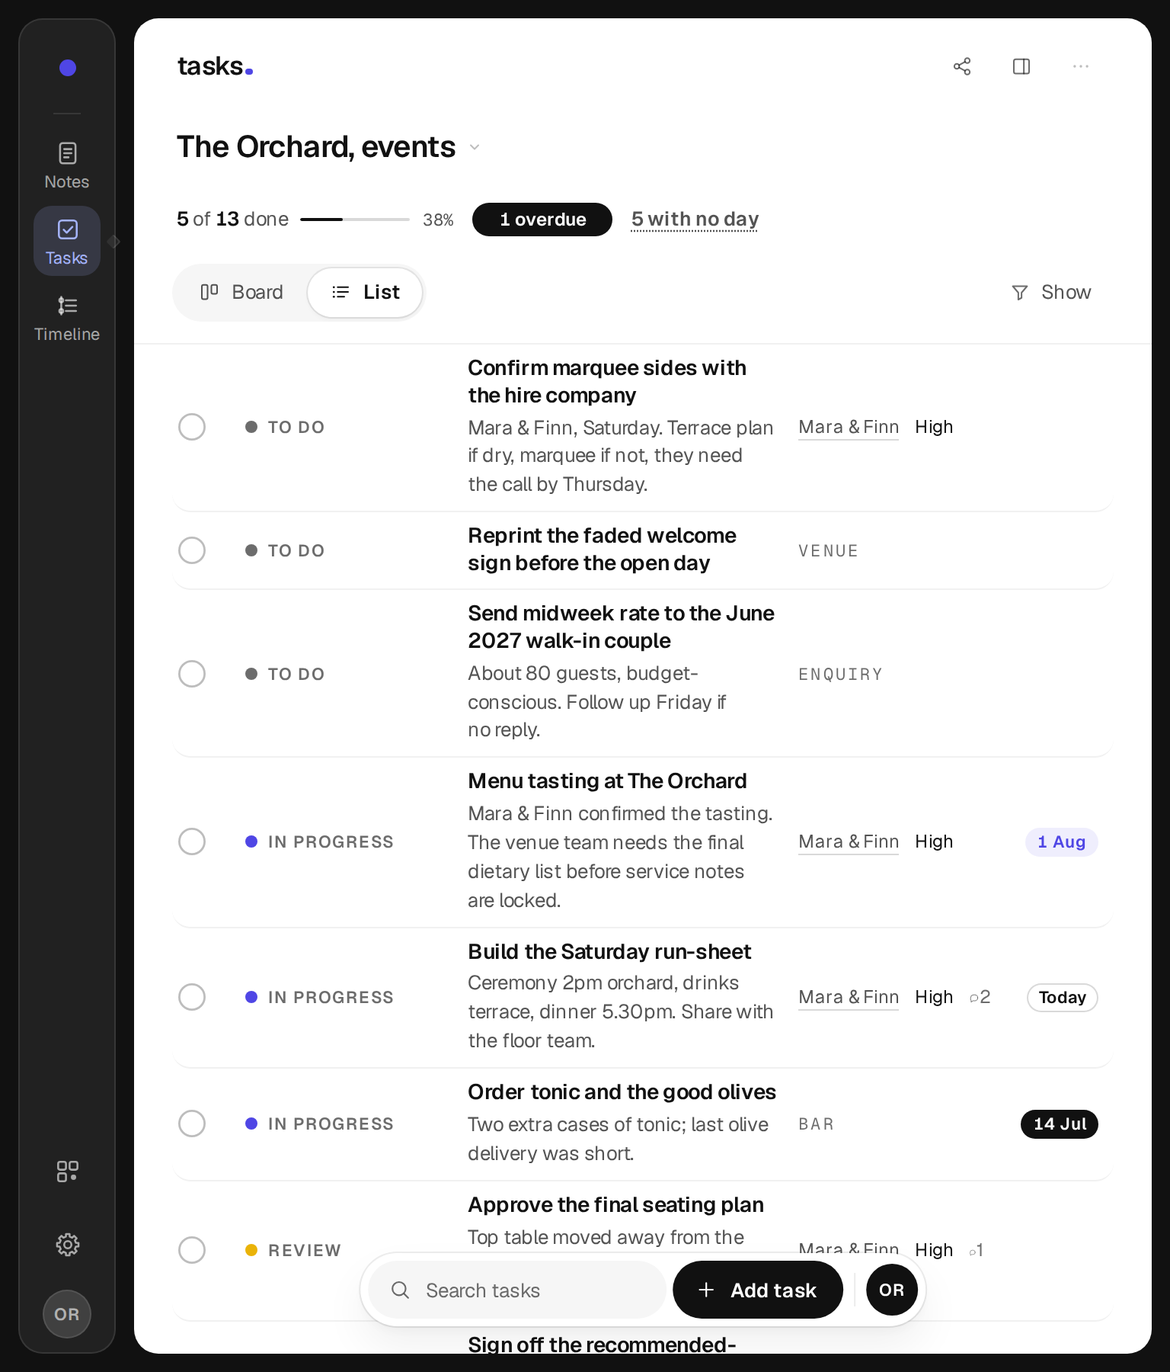
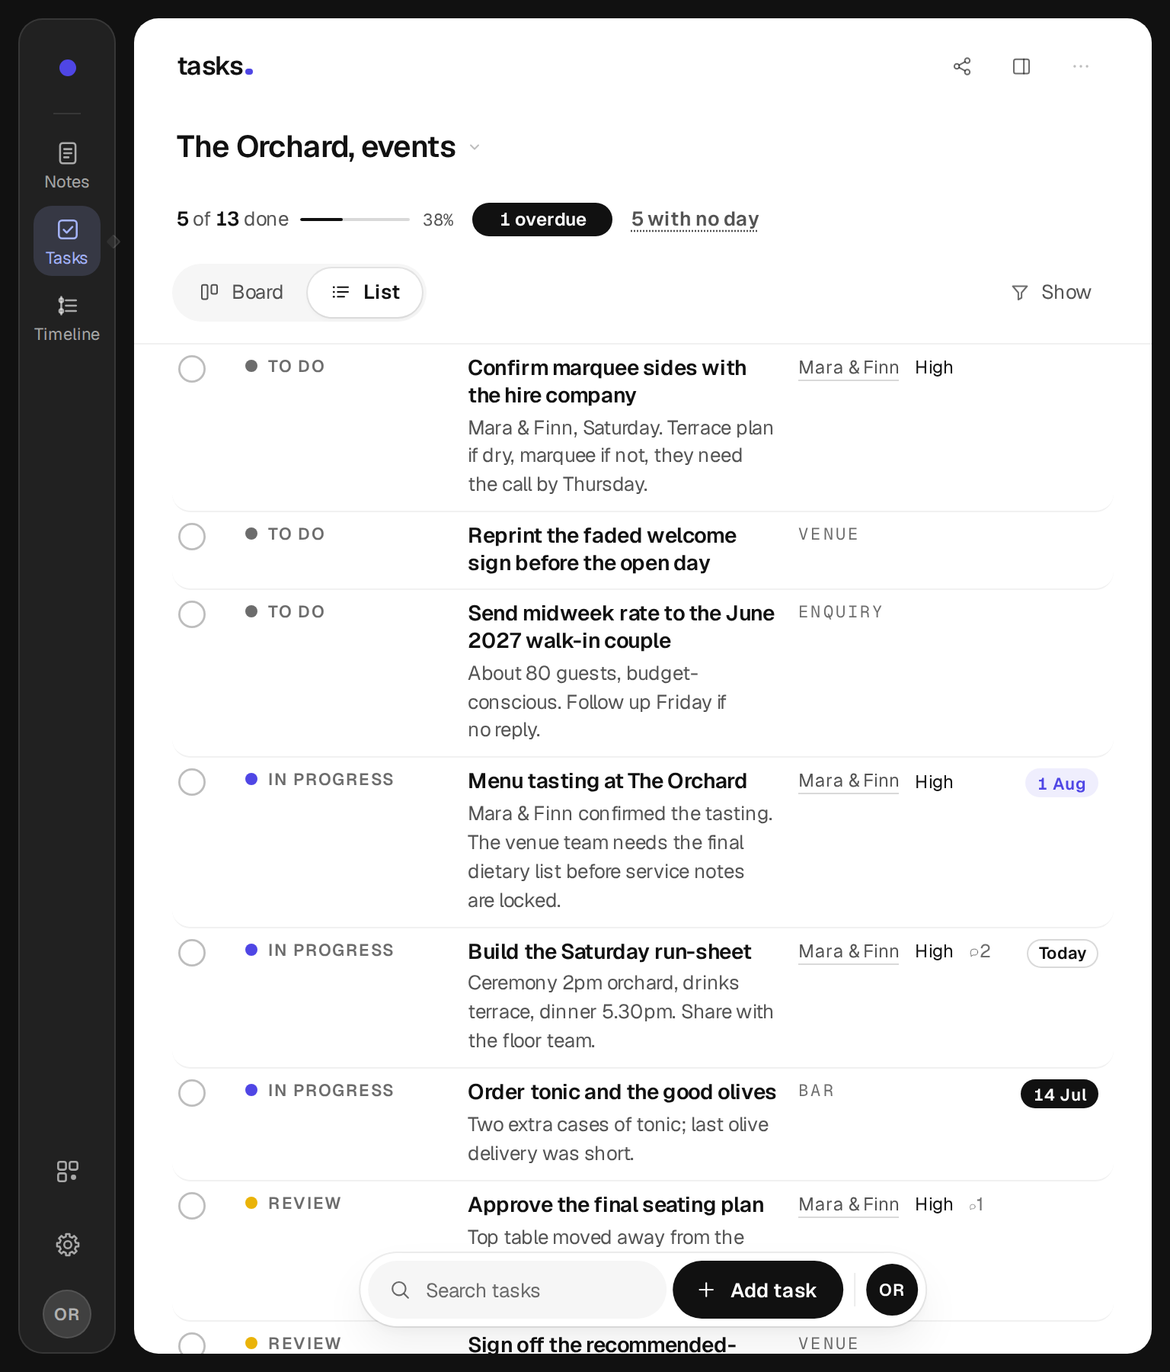
round 6: four confirmed findings closed, and the second gate blind spot
All 31 findings that went to refuters are adjudicated: 21 real, 10
refuted. These four are fixed, each with its assertion written first and
watched failing (13 red, now 0):

REFLOW. The dictation floor's three pills sat on one no-wrap row needing
472px, and the only relief lived inside a pointer:coarse query — so a
FINGER got it and a narrowed desktop window did not. WCAG 1.4.10's own
test width overflowed the document by 145px at 320 and really scrolled.
Width, not pointer, decides whether three pills fit, so the rule is a
width query. The coarse keycap hide stays: with the wrap the keycap still
fits, so the Ctrl+Enter hint survives for the keyboard user who narrowed
the window to find it.

THE ELEVENTH ABSENCE-READS-AS-A-PASS: open() derives isTouch from
vp.isMobile and every config viewport under 480 sets it, so every
no-sideways-scroll assertion in the behaviour gate had only ever run on a
coarse pointer. It now sweeps 320/390/430 on a fine one.

THE OUTLINE. Notes shipped five orphan h3s at a desk, and at 390 a
display:none pruned the sheet's h1 from the tree entirely — one state with
no heading at all. The name is not DRAWN on a phone by decision; it still
has to be the document's root, so it goes sr-only rather than away. The
index's day headings become level 2 under it, and each layer that covers
the sheet — the dictation floor, the phone sheet, the hand — carries its
own root, because a modal's accessible name is not a heading.
[…]

diff --git a/docs/design/labs/master-suite-2026-08/master.html b/docs/design/labs/master-suite-2026-08/master.html
@@ -1600,7 +1600,14 @@ body {
   display: grid;
   grid-template-columns: subgrid;
   grid-column: 1 / -1;
-  align-items: center;
+  /* START, not centre. A person's words get the first line, and the tick
+     that ticks them belongs beside that line — centred, it floated to the
+     middle of a two-line note, so a column of thirteen ticks wobbled
+     between 13px and 46px from its row's top and landed level with the
+     NOTE rather than the title. The `.lrow .tick { margin: 0 }` reset
+     below is what makes start-alignment land within a pixel; restoring
+     the tick's own margin-top pushes it back out. */
+  align-items: start;
   min-height: 44px;
   padding: 7px 10px 7px 4px;
   border-radius: var(--r-card, 8px);
@@ -5639,7 +5646,16 @@ body {
   [data-app="notes"] .state .act { flex: 0 0 auto; margin-left: 30px; }
   [data-app="notes"] { --inset: 9px; --gutter: 16px; }
   [data-app="notes"] .sheet { height: calc(100dvh - 60px - var(--inset) * 3 - env(safe-area-inset-bottom)); border-radius: 16px; }
-  [data-app="notes"] .headName { display: none; }
+  /* SR-ONLY, NOT GONE. `display: none` pruned the sheet's h1 from the
+     accessibility tree, leaving five orphan h3s at 390 — and in two
+     states no heading at all. The name is not drawn on a phone by
+     decision; it still has to be the document's root. `min-width` is
+     reset because the base rule sets 5ch, which fights `width: 1px`. */
+  [data-app="notes"] .headName {
+    position: absolute; width: 1px; height: 1px; min-width: 0;
+    margin: -1px; padding: 0; overflow: hidden;
+    clip-path: inset(50%); white-space: nowrap; border: 0;
+  }
   /* One row, four objects, no wrapping and a sheet that clips: the couple,
      the date and the notebook's count were laid out past the sheet's right
      edge and simply did not print. The head takes two rows on a phone —
@@ -5943,6 +5959,22 @@ body {
      stays whole on its own line. */
   [data-app="notes"] .darkFoot { flex-wrap: wrap; }
   [data-app="notes"] .darkNote { flex: 1 1 100%; }
+}
+
+/* THE REFLOW WIDTH, on a pointer that is not a finger.
+   `.darkActs` held its three pills on one `flex: 0 0 auto` row, which
+   needs 472px. The only relief was the keycap hide inside
+   `@media (pointer: coarse)` — so a FINGER got it and a narrowed desktop
+   window did not, and 1.4.10's own test width overflowed the document by
+   145px at 320 and really scrolled. Width, not pointer, is what decides
+   whether three pills fit, so the rule is a width query.
+
+   The coarse keycap hide STAYS: with the wrap in place the keycap still
+   fits unclipped inside the pill at 320, so the Ctrl+Enter hint survives
+   for exactly the keyboard user who narrowed the window to find it. */
+@media (max-width: 720px) {
+  [data-app="notes"] .darkActs { flex: 1 1 100%; flex-wrap: wrap; margin-left: 0; min-width: 0; }
+  [data-app="notes"] .darkAct { flex: 1 1 100%; min-width: 0; justify-content: center; padding: 0 12px; }
 }
 
 /* ══ timeline.css ══════════════════════════════════════════ */
@@ -17508,7 +17540,7 @@ window.__SUITE.register("tasks", {
         ${chip ? `<span class="headRule" aria-hidden="true"></span>${chip}` : ""}
         <div class="headActions">
           <button class="headAct" type="button" data-act="privacy" aria-label="${attr(N.copy.privacy)}. ${attr(N.copy.privacyLong)}.">${I.lock}<span>${esc(N.copy.privacy)}</span></button>
-          <button class="headAct" type="button" data-act="options" aria-label="Notes options" aria-disabled="true" title="Notes options are on another screen. Not here yet.">${I.dots}</button>
+          <button class="headAct" type="button" data-act="options" aria-label="Notes options" aria-disabled="true" title="More for this note. Not here yet.">${I.dots}</button>
         </div>
       </header>`;
   }
@@ -17550,7 +17582,7 @@ window.__SUITE.register("tasks", {
                  <div class="dockRow" data-verbs>
                    <button class="dockGlyph" type="button" data-act="search" aria-label="Search everything you wrote">${I.search}</button>
                    <button class="dockGlyph" type="button" data-act="voice" aria-label="${attr(N.copy.voiceStart)}">${I.mic}</button>
-                   <button class="dockGlyph" type="button" data-act="photo" aria-label="Read a photo" aria-disabled="true" title="Reading a photo happens on another screen. Not here yet.">${I.photo}</button>
+                   <button class="dockGlyph" type="button" data-act="photo" aria-label="Read a photo" aria-disabled="true" title="A photo, read into words. Not here yet.">${I.photo}</button>
                    ${commit}
                  </div>
                  <div class="dockRow" data-suite>
@@ -17573,7 +17605,7 @@ window.__SUITE.register("tasks", {
                  }
                  <span class="dockRule" aria-hidden="true"></span>
                  <button class="dockGlyph" type="button" data-act="voice" aria-label="${attr(N.copy.voiceStart)}">${I.mic}</button>
-                 <button class="dockGlyph" type="button" data-act="photo" aria-label="Read a photo" aria-disabled="true" title="Reading a photo happens on another screen. Not here yet.">${I.photo}</button>
+                 <button class="dockGlyph" type="button" data-act="photo" aria-label="Read a photo" aria-disabled="true" title="A photo, read into words. Not here yet.">${I.photo}</button>
                  <span class="dockRule" aria-hidden="true"></span>
                  <button class="dockAvatar" type="button" data-act="account" aria-disabled="true" title="Your account, in Signal Studio. Not here yet." aria-label="${attr(N.operator.role)}. Not here yet.">${N.operator.initials}</button>`
           }
@@ -17675,7 +17707,7 @@ window.__SUITE.register("tasks", {
           <span class="deskFact"><b>${esc(N.copy.otherWaysLabel)}</b>
             <span class="deskVerbs">
               <button class="verb" type="button" data-act="voice">${I.mic}${esc(N.copy.voiceStart)}</button>
-              <button class="verb" type="button" data-act="photo" aria-disabled="true" title="Reading a photo happens on another screen. Not here yet.">${I.photo}${esc(N.copy.photo)}</button>
+              <button class="verb" type="button" data-act="photo" aria-disabled="true" title="A photo, read into words. Not here yet.">${I.photo}${esc(N.copy.photo)}</button>
             </span>
           </span>
         </div>
@@ -18003,7 +18035,7 @@ window.__SUITE.register("tasks", {
         /* Its own sticky context, so a rule is pushed out by the next one
            rather than every rule in the pile stacking at the top. */
         rows.push(
-          `<li class="idxSection"><h3 class="idxDay" role="heading" aria-level="3"${g.soon ? " data-soon" : ""}${g.undated ? " data-undated" : ""}>${esc(g.label)}${g.note ? `<span class="idxDayNote dateStamp">${esc(g.note)}</span>` : ""}${g.tail ? `<span class="idxDayTail">${esc(g.tail)}</span>` : ""}</h3>` +
+          `<li class="idxSection"><h2 class="idxDay"${g.soon ? " data-soon" : ""}${g.undated ? " data-undated" : ""}>${esc(g.label)}${g.note ? `<span class="idxDayNote dateStamp">${esc(g.note)}</span>` : ""}${g.tail ? `<span class="idxDayTail">${esc(g.tail)}</span>` : ""}</h2>` +
             `<ul class="idxGroupRows">${g.rows.map((note) => idxRow(note, o)).join("")}</ul></li>`,
         );
       }
@@ -18050,6 +18082,7 @@ window.__SUITE.register("tasks", {
     const bodyHtml = bodyHtmlOf(note, marked && note.body.includes(marked) ? marked : null);
     return `
       <section class="phoneSheet" role="dialog" aria-modal="true" aria-label="${attr(note.title)}">
+        <h1 class="sr">${esc(note.title)}</h1>
         <div class="phoneSheetTop">
           <button class="act" data-quiet type="button" data-act="close">${I.chevron}Back to your notes</button>
           <span class="spacer"></span>
@@ -18219,6 +18252,7 @@ window.__SUITE.register("tasks", {
         dock: true,
         over: `
           <section class="phoneSheet" role="dialog" aria-modal="true" aria-label="${attr(`Deciding: ` + note.title)}">
+            <h1 class="sr">Deciding: ${esc(note.title)}</h1>
             <div class="phoneSheetTop">
               <button class="act" data-quiet type="button" data-act="notebook">${I.chevron}Back to your notes</button>
               <span class="spacer"></span>
@@ -18311,6 +18345,7 @@ window.__SUITE.register("tasks", {
       ...base,
       over: `
         <section class="dark" aria-label="Dictating">
+          <h1 class="sr">Dictating</h1>
           <div class="darkTop">
             <span class="darkTag"><span class="rec" aria-hidden="true"></span>Listening</span>
             <span class="darkTime tab">0:00</span>
@@ -18347,6 +18382,7 @@ window.__SUITE.register("tasks", {
         ...base,
         over: `
           <section class="dark" aria-label="What came back">
+            <h1 class="sr">What came back</h1>
             <div class="darkBody">
               <p class="saidHead">What came back, in ${pieces.length === 1 ? "one note" : `${pieces.length} notes`}.</p>
               <p class="saidHint">Edit ${editEither(pieces.length)} before you keep ${keepWhich(pieces.length)}.</p>
@@ -19118,7 +19154,7 @@ window.__SUITE.register("tasks", {
       }
       if (where === "more") {
         /* Still not a surface in the suite: the rest of Signal Studio. */
-        say("The rest of Signal Studio is on another screen.");
+        say("The rest of Signal Studio. Not here yet.");
         return;
       }
       /* The doors are real. */
@@ -19339,12 +19375,24 @@ window.__SUITE.register("tasks", {
        where they go rather than sharing one sentence between seven. */
     const ELSEWHERE = {
       timeline: "Timeline is another surface in this suite. This lab is the Notes one.",
-      more: "The rest of Signal Studio is on another screen.",
-      privacy: `${N.copy.privacyLong} Your privacy settings are on another screen.`,
-      options: "Notes options are on another screen.",
-      photo: "Reading a photo happens on another screen. Nothing here changes.",
-      retry: "Sending again happens on another screen. Your note is still here.",
-      destroy: "Deleting for good happens on another screen. Nothing here is deleted.",
+      /* ONE GRAMMAR FOR A CLOSED DOOR, ratified in src/app.js:96-105:
+         name the thing, then "Not here yet.", then at most one sentence
+         of reassurance. "happens on another screen. Not here yet." was
+         two claims that cannot both be true, and it invented a
+         destination this product does not have.
+
+         `photo` and `options` are gone from this table rather than
+         rewritten: :3220 intercepts any aria-disabled control whose title
+         matches /Not here yet/ and announces the TITLE, so both entries
+         were unreachable. Their titles carry the words now.
+
+         `more` is reached only by the note-level button, whose own
+         accessible name is "More actions for this note" — so it says
+         what that button is, not what the suite door is. */
+      more: "More for this note. Not here yet.",
+      privacy: `${N.copy.privacyLong}. Your privacy settings. Not here yet.`,
+      retry: "Sending again. Not here yet. Your note is still here.",
+      destroy: "Deleting for good. Not here yet. Nothing here is deleted.",
     };
     if (ELSEWHERE[a]) {
       say(ELSEWHERE[a]);

diff --git a/docs/design/labs/master-suite-2026-08/src/notes.js b/docs/design/labs/master-suite-2026-08/src/notes.js
@@ -1630,7 +1630,7 @@
         ${chip ? `<span class="headRule" aria-hidden="true"></span>${chip}` : ""}
         <div class="headActions">
           <button class="headAct" type="button" data-act="privacy" aria-label="${attr(N.copy.privacy)}. ${attr(N.copy.privacyLong)}.">${I.lock}<span>${esc(N.copy.privacy)}</span></button>
-          <button class="headAct" type="button" data-act="options" aria-label="Notes options" aria-disabled="true" title="Notes options are on another screen. Not here yet.">${I.dots}</button>
+          <button class="headAct" type="button" data-act="options" aria-label="Notes options" aria-disabled="true" title="More for this note. Not here yet.">${I.dots}</button>
         </div>
       </header>`;
   }
@@ -1672,7 +1672,7 @@
                  <div class="dockRow" data-verbs>
                    <button class="dockGlyph" type="button" data-act="search" aria-label="Search everything you wrote">${I.search}</button>
                    <button class="dockGlyph" type="button" data-act="voice" aria-label="${attr(N.copy.voiceStart)}">${I.mic}</button>
-                   <button class="dockGlyph" type="button" data-act="photo" aria-label="Read a photo" aria-disabled="true" title="Reading a photo happens on another screen. Not here yet.">${I.photo}</button>
+                   <button class="dockGlyph" type="button" data-act="photo" aria-label="Read a photo" aria-disabled="true" title="A photo, read into words. Not here yet.">${I.photo}</button>
                    ${commit}
                  </div>
                  <div class="dockRow" data-suite>
@@ -1695,7 +1695,7 @@
                  }
                  <span class="dockRule" aria-hidden="true"></span>
                  <button class="dockGlyph" type="button" data-act="voice" aria-label="${attr(N.copy.voiceStart)}">${I.mic}</button>
-                 <button class="dockGlyph" type="button" data-act="photo" aria-label="Read a photo" aria-disabled="true" title="Reading a photo happens on another screen. Not here yet.">${I.photo}</button>
+                 <button class="dockGlyph" type="button" data-act="photo" aria-label="Read a photo" aria-disabled="true" title="A photo, read into words. Not here yet.">${I.photo}</button>
                  <span class="dockRule" aria-hidden="true"></span>
                  <button class="dockAvatar" type="button" data-act="account" aria-disabled="true" title="Your account, in Signal Studio. Not here yet." aria-label="${attr(N.operator.role)}. Not here yet.">${N.operator.initials}</button>`
           }
@@ -1797,7 +1797,7 @@
           <span class="deskFact"><b>${esc(N.copy.otherWaysLabel)}</b>
             <span class="deskVerbs">
               <button class="verb" type="button" data-act="voice">${I.mic}${esc(N.copy.voiceStart)}</button>
-              <button class="verb" type="button" data-act="photo" aria-disabled="true" title="Reading a photo happens on another screen. Not here yet.">${I.photo}${esc(N.copy.photo)}</button>
+              <button class="verb" type="button" data-act="photo" aria-disabled="true" title="A photo, read into words. Not here yet.">${I.photo}${esc(N.copy.photo)}</button>
             </span>
           </span>
         </div>
@@ -2125,7 +2125,7 @@
         /* Its own sticky context, so a rule is pushed out by the next one
            rather than every rule in the pile stacking at the top. */
         rows.push(
-          `<li class="idxSection"><h3 class="idxDay" role="heading" aria-level="3"${g.soon ? " data-soon" : ""}${g.undated ? " data-undated" : ""}>${esc(g.label)}${g.note ? `<span class="idxDayNote dateStamp">${esc(g.note)}</span>` : ""}${g.tail ? `<span class="idxDayTail">${esc(g.tail)}</span>` : ""}</h3>` +
+          `<li class="idxSection"><h2 class="idxDay"${g.soon ? " data-soon" : ""}${g.undated ? " data-undated" : ""}>${esc(g.label)}${g.note ? `<span class="idxDayNote dateStamp">${esc(g.note)}</span>` : ""}${g.tail ? `<span class="idxDayTail">${esc(g.tail)}</span>` : ""}</h2>` +
             `<ul class="idxGroupRows">${g.rows.map((note) => idxRow(note, o)).join("")}</ul></li>`,
         );
       }
@@ -2172,6 +2172,7 @@
     const bodyHtml = bodyHtmlOf(note, marked && note.body.includes(marked) ? marked : null);
     return `
       <section class="phoneSheet" role="dialog" aria-modal="true" aria-label="${attr(note.title)}">
+        <h1 class="sr">${esc(note.title)}</h1>
         <div class="phoneSheetTop">
           <button class="act" data-quiet type="button" data-act="close">${I.chevron}Back to your notes</button>
           <span class="spacer"></span>
@@ -2341,6 +2342,7 @@
         dock: true,
         over: `
           <section class="phoneSheet" role="dialog" aria-modal="true" aria-label="${attr(`Deciding: ` + note.title)}">
+            <h1 class="sr">Deciding: ${esc(note.title)}</h1>
             <div class="phoneSheetTop">
               <button class="act" data-quiet type="button" data-act="notebook">${I.chevron}Back to your notes</button>
               <span class="spacer"></span>
@@ -2433,6 +2435,7 @@
       ...base,
       over: `
         <section class="dark" aria-label="Dictating">
+          <h1 class="sr">Dictating</h1>
           <div class="darkTop">
             <span class="darkTag"><span class="rec" aria-hidden="true"></span>Listening</span>
             <span class="darkTime tab">0:00</span>
@@ -2469,6 +2472,7 @@
         ...base,
         over: `
           <section class="dark" aria-label="What came back">
+            <h1 class="sr">What came back</h1>
             <div class="darkBody">
               <p class="saidHead">What came back, in ${pieces.length === 1 ? "one note" : `${pieces.length} notes`}.</p>
               <p class="saidHint">Edit ${editEither(pieces.length)} before you keep ${keepWhich(pieces.length)}.</p>
@@ -3240,7 +3244,7 @@
       }
       if (where === "more") {
         /* Still not a surface in the suite: the rest of Signal Studio. */
-        say("The rest of Signal Studio is on another screen.");
+        say("The rest of Signal Studio. Not here yet.");
         return;
       }
       /* The doors are real. */
@@ -3461,12 +3465,24 @@
        where they go rather than sharing one sentence between seven. */
     const ELSEWHERE = {
       timeline: "Timeline is another surface in this suite. This lab is the Notes one.",
-      more: "The rest of Signal Studio is on another screen.",
-      privacy: `${N.copy.privacyLong} Your privacy settings are on another screen.`,
-      options: "Notes options are on another screen.",
-      photo: "Reading a photo happens on another screen. Nothing here changes.",
-      retry: "Sending again happens on another screen. Your note is still here.",
-      destroy: "Deleting for good happens on another screen. Nothing here is deleted.",
+      /* ONE GRAMMAR FOR A CLOSED DOOR, ratified in src/app.js:96-105:
+         name the thing, then "Not here yet.", then at most one sentence
+         of reassurance. "happens on another screen. Not here yet." was
+         two claims that cannot both be true, and it invented a
+         destination this product does not have.
+
+         `photo` and `options` are gone from this table rather than
+         rewritten: :3220 intercepts any aria-disabled control whose title
+         matches /Not here yet/ and announces the TITLE, so both entries
+         were unreachable. Their titles carry the words now.
+
+         `more` is reached only by the note-level button, whose own
+         accessible name is "More actions for this note" — so it says
+         what that button is, not what the suite door is. */
+      more: "More for this note. Not here yet.",
+      privacy: `${N.copy.privacyLong}. Your privacy settings. Not here yet.`,
+      retry: "Sending again. Not here yet. Your note is still here.",
+      destroy: "Deleting for good. Not here yet. Nothing here is deleted.",
     };
     if (ELSEWHERE[a]) {
       say(ELSEWHERE[a]);

diff --git a/docs/design/labs/master-suite-2026-08/src/notes.css b/docs/design/labs/master-suite-2026-08/src/notes.css
@@ -1592,7 +1592,16 @@
   [data-app="notes"] .state .act { flex: 0 0 auto; margin-left: 30px; }
   [data-app="notes"] { --inset: 9px; --gutter: 16px; }
   [data-app="notes"] .sheet { height: calc(100dvh - 60px - var(--inset) * 3 - env(safe-area-inset-bottom)); border-radius: 16px; }
-  [data-app="notes"] .headName { display: none; }
+  /* SR-ONLY, NOT GONE. `display: none` pruned the sheet's h1 from the
+     accessibility tree, leaving five orphan h3s at 390 — and in two
+     states no heading at all. The name is not drawn on a phone by
+     decision; it still has to be the document's root. `min-width` is
+     reset because the base rule sets 5ch, which fights `width: 1px`. */
+  [data-app="notes"] .headName {
+    position: absolute; width: 1px; height: 1px; min-width: 0;
+    margin: -1px; padding: 0; overflow: hidden;
+    clip-path: inset(50%); white-space: nowrap; border: 0;
+  }
   /* One row, four objects, no wrapping and a sheet that clips: the couple,
      the date and the notebook's count were laid out past the sheet's right
      edge and simply did not print. The head takes two rows on a phone —
@@ -1896,4 +1905,20 @@
      stays whole on its own line. */
   [data-app="notes"] .darkFoot { flex-wrap: wrap; }
   [data-app="notes"] .darkNote { flex: 1 1 100%; }
+}
+
+/* THE REFLOW WIDTH, on a pointer that is not a finger.
+   `.darkActs` held its three pills on one `flex: 0 0 auto` row, which
+   needs 472px. The only relief was the keycap hide inside
+   `@media (pointer: coarse)` — so a FINGER got it and a narrowed desktop
+   window did not, and 1.4.10's own test width overflowed the document by
+   145px at 320 and really scrolled. Width, not pointer, is what decides
+   whether three pills fit, so the rule is a width query.
+
+   The coarse keycap hide STAYS: with the wrap in place the keycap still
+   fits unclipped inside the pill at 320, so the Ctrl+Enter hint survives
+   for exactly the keyboard user who narrowed the window to find it. */
+@media (max-width: 720px) {
+  [data-app="notes"] .darkActs { flex: 1 1 100%; flex-wrap: wrap; margin-left: 0; min-width: 0; }
+  [data-app="notes"] .darkAct { flex: 1 1 100%; min-width: 0; justify-content: center; padding: 0 12px; }
 }

diff --git a/docs/design/labs/master-suite-2026-08/src/tasks.css b/docs/design/labs/master-suite-2026-08/src/tasks.css
@@ -485,7 +485,14 @@
   display: grid;
   grid-template-columns: subgrid;
   grid-column: 1 / -1;
-  align-items: center;
+  /* START, not centre. A person's words get the first line, and the tick
+     that ticks them belongs beside that line — centred, it floated to the
+     middle of a two-line note, so a column of thirteen ticks wobbled
+     between 13px and 46px from its row's top and landed level with the
+     NOTE rather than the title. The `.lrow .tick { margin: 0 }` reset
+     below is what makes start-alignment land within a pixel; restoring
+     the tick's own margin-top pushes it back out. */
+  align-items: start;
   min-height: 44px;
   padding: 7px 10px 7px 4px;
   border-radius: var(--r-card, 8px);
